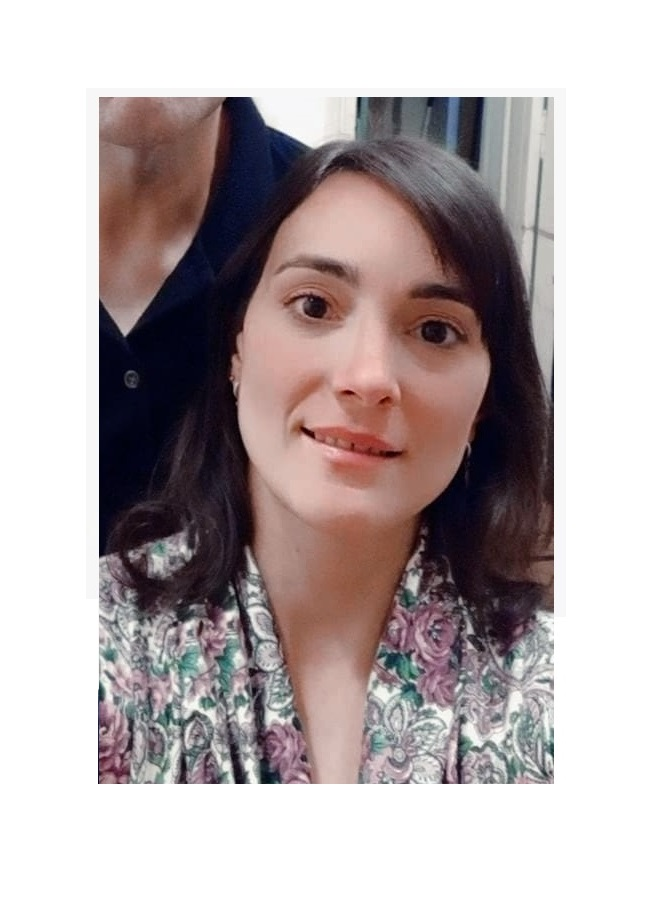
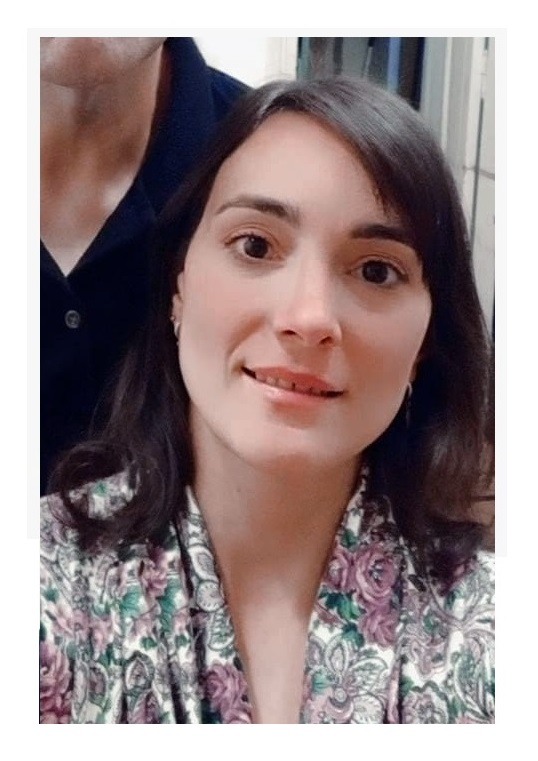
mejoras

diff --git a/index.html b/index.html
@@ -12,7 +12,7 @@
 
 <body>
   <header>
-    <img src="./media/fotocv.jpeg" alt="Mi foto de perfil";  width= "250px"; height="310px" >
+    <img src="./media/fotocv.jpeg" alt="Mi foto de perfil";  width= "200px"; height="270px" >
     <div>
       <h4>Hola, mi nombre es: </h4>
       <h1> Ellenberger, Gisela Natalia </h1>
@@ -33,19 +33,17 @@
         Tu navegador no es compatible con esta reproducción </audio></td>
       </table>
     </nav> 
-  </section>  
- 
-
+  </section> 
   <hr>   
-  <div  class =" resumen " >
+  <section class="resumen">
     <p id="Home"> </p>
         <h2>   Objetivos: </h2>     
            <ul>
              <li> Desarrollarme en un ambiente de trabajo que me lleve a nuevas fronteras de conocimiento, aprender cosas nuevas y poner en práctica todas mis habilidades
            </ul>
-    </div> _ _ 
+  </section>
  
-    <div  class =" titulos " >
+    <section  class ="titulos" >
       <p id="cuerpo"> </p>
         <h2>   Experiencia laboral: </h2>
         <i class="fa-solid fa-snowflake"></i>
@@ -55,18 +53,17 @@
             <li> <p> Desde 2015 a 2020: Técnica en el laboratorio de análisis bioquímicos, Santa Fe </p></li>
             <li> <p> Desde 2020 a la actualidad: Administrativo sector inmobiliario, Santa Fe</p> </li>
           </ul>
-    </div> _ _ 
+    </section>
       
-    <div  class =" titulos " >
+    <section class ="titulos" >
         <h2>   Formación Académica: </h2>  
           <ul>
             <li>  <a  href = " http://www.escuelasecundaria48-parana.edu.ar/ " > <p> Escuela Secundaria Nº 48, Paraná, Entre Ríos - 2006   </p>  </a>
             <li>  <a  href = " https://fcytvirtual.uader.edu.ar/ " > <p> Licenciatura en Criminalística, Paraná, Entre Ríos - 2014 </p>  </a>  </li>
             <li>  <a  href = "https://www.fcad.uner.edu.ar/tecnicatura-universitaria-en-desarrollo-web/ " > <p> Licenciatura en Programación Web, Concordia, Entre Ríos - 2020 </p>  </a>  </li>
             </ul>
-    </div> _ _   
-
-    <div  class =" cuerpo " >
+    </section>
+    <section  class ="cuerpo" >
         <h2> Cualificaciones: </h2>
           <ul>
             <li><p> Ingles: Nivel Medio <progress value="50" max="100"></progress></p> </li>
@@ -74,45 +71,39 @@
             <li><p> Conocimientos en el area de programación <progress value="30" max="100"></progress></p></li>
             <li><p> Facturación y liquidación de sueldos <progress value="100" max="100"></progress></p> </li>    
           </ul>
-    </div> _ _ 
-        
-    <p id="contacto"> </p>
+    </section>
+    <section class="contacto"> 
           <div  class =" contácteme " >
             <h2 > Póngase en contacto: </h2 >
             <a  class =" mail " href =" petty1611@hotmail.com " > CONTACTAME </a>
               <div class="camposform">
                 <label> Nombre </label>
                 <input type="text" id="Nombre" placeholder="Nombre">
-            </div>
-
-            <div class="camposform">
+          </div>
+          <div class="camposform">
                 <label> Apellido</label>
                 <input type="text" id="Apellido" placeholder="Apellido">
-            </div>
-        
-            <div class="camposform">
+          </div>
+          <div class="camposform">
                 <label> E-mail</label>
                 <input type="email" id="email" placeholder="Direccion de e-mail">
-            </div>
-
-            <div class="camposform">
+          </div>
+          <div class="camposform">
                 <label> Telefono </label>
                 <input type="tel" id="tel" placeholder="Teléfono">
-            </div>
-
-            <div class="camposform">
+          </div>
+          <div class="camposform">
                 <label> Mensaje</label> </label>
                 <textarea name="mensaje" id="msge" cols="30" rows="4" placeholder="Motivo del contacto" ></textarea>
-            </div>
-
-            <div class="camposformbutton">
+          </div>
+          <div class="camposformbutton">
                 <button type="submit" class="btnsuccess" value="Validar correo" onclick="validarcorreo(document.getElementById('email').value)"\> Enviar contacto</button>
                 <p class="atencion" id="atencion"></p>
-            </div>
-                <script src="form.js"></script>
-            </div>
+          </div>
+          <script src="form.js"></script>
+    </section>
 
-    <footer>      
+      <section class="redes">
         <div class="bottom-text">
           <h3> Mis redes: </h3>
             <a  class="footer-link" href="https://www.linkedin.com/in/gisela-natalia-ellenberger-6489b6266/">LinkedIn 
@@ -122,15 +113,15 @@
             <a class="footer-link" href="https://www.instagram.com/ellen_nagi"> Instagram 
             <img src="https://cdn.iconscout.com/icon/free/png-256/instagram-1464521-1239436.png" alt="Instagram" width="25xp" height="25xp"> </a> 
         </div>  
-        <p>      
-        </p> 
-      <div class="mapa">
-      <iframe src="https://www.google.com/maps/embed?pb=!1m18!1m12!1m3!1d3393.4765144842286!2d-60.523801399999996!3d-31.730191899999998!2m3!1f0!2f0!3f0!3m2!1i1024!2i768!4f13.1!3m3!1m2!1s0x95b45277568336c7%3A0x811bfb8ee286fd76!2zU2FsdGEgMzgwLCBQYXJhbsOhLCBFbnRyZSBSw61vcw!5e0!3m2!1ses!2sar!4v1679622696123!5m2!1ses!2sar" width="100%" height="250" style="border:0;" allowfullscreen="" loading="lazy" referrerpolicy="no-referrer-when-downgrade"></iframe>
-      </div>       
-     _ _            
-      <p  class =" footer-legal " > 2022 © NaGhi - Todos los derechos reservados </p> 
+        <div class="mapa">
+        <iframe src="https://www.google.com/maps/embed?pb=!1m18!1m12!1m3!1d3393.4765144842286!2d-60.523801399999996!3d-31.730191899999998!2m3!1f0!2f0!3f0!3m2!1i1024!2i768!4f13.1!3m3!1m2!1s0x95b45277568336c7%3A0x811bfb8ee286fd76!2zU2FsdGEgMzgwLCBQYXJhbsOhLCBFbnRyZSBSw61vcw!5e0!3m2!1ses!2sar!4v1679622696123!5m2!1ses!2sar" width="100%" height="250" style="border:0;" allowfullscreen="" loading="lazy" referrerpolicy="no-referrer-when-downgrade"></iframe>
+        </div>           
+      </section>
+    <footer>           
+      <div class="contenedor-pie">     
+      <h2 class="titulo-final">&copy; NaGhi Design | Ellenberger, Gisela N. 2024 - Todos los derechos reservados</h2>
+      </div>
     </footer>
-
 </body>
 </html>
 

diff --git a/Styles.css b/Styles.css
@@ -12,7 +12,8 @@ body {
   font-family: var(--front);
   color: black;
   width: 1060px;
-  margin: 35px; 
+  background-color: #edddf9;
+  margin-left: 50px;
 }
 
 img {
@@ -44,6 +45,7 @@ section {
 } 
 .mapa{
   border: 2px solid #772ce8 ;
+  margin-top: 20px;
 }
 
 ul {
@@ -56,7 +58,24 @@ a, a:link, a:visited, a:hover {
   color: var(--nord1);
 }
 
-footer {
-    width: 1050px;
-    height: 50px;
-} 
+/* Footer */
+footer{
+  background: #772ce8;
+  padding: 15px 0 15px 0;
+  margin: auto;
+  overflow: hidden;
+}
+.contenedor-pie {
+  display: flex;
+  width: 90%;
+  justify-content: space-evenly;
+  margin: auto;
+  padding-bottom: 20px;
+}
+
+.titulo-final{
+  text-align: center;
+  font-size: 14px;
+  margin: 20px 0 0 0;
+  color: #b1a093;
+}
